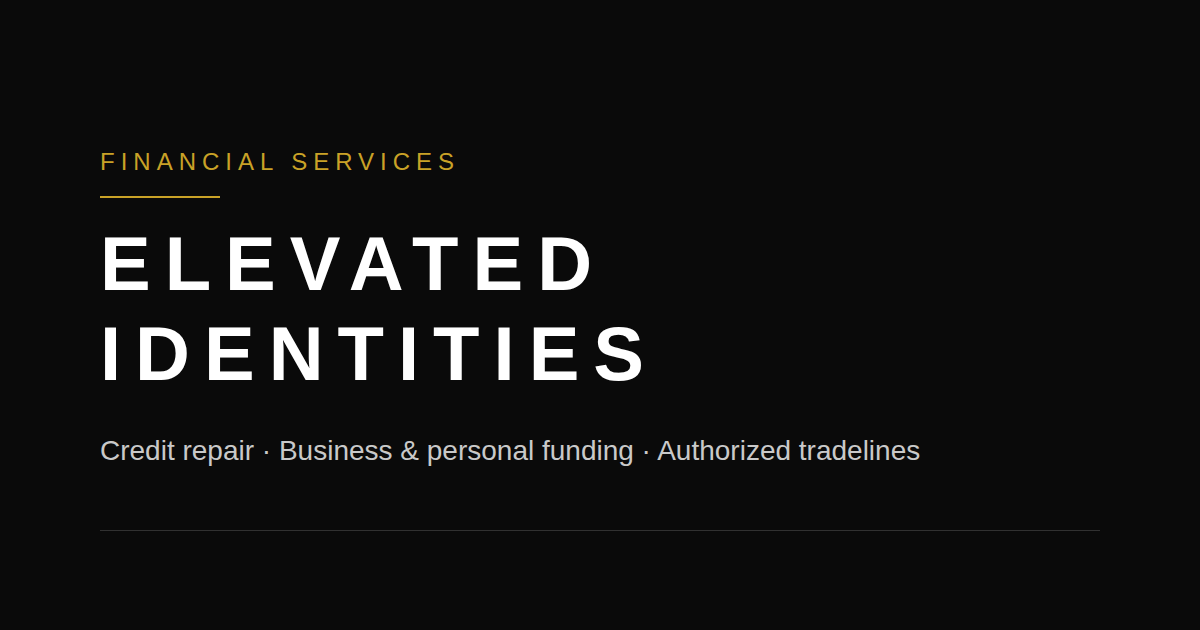
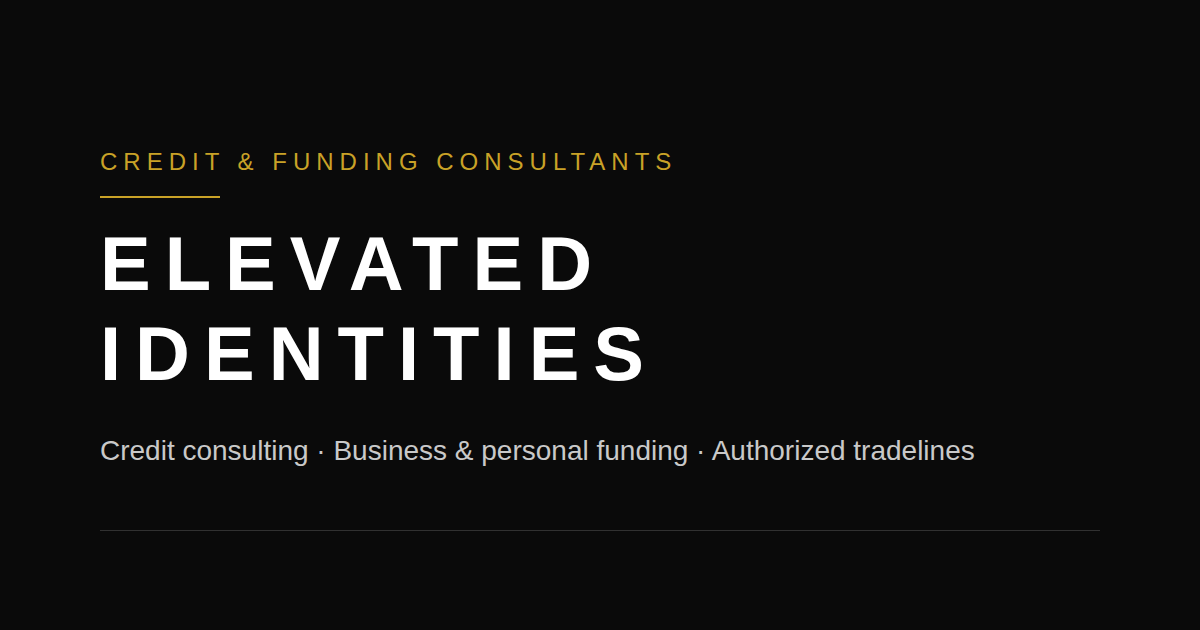
Remove every em dash; fix rebrand leftovers in the share image and manifest
Em dashes
- Rewrites all 16 occurrences rather than swapping the character, so each
  sentence still reads naturally: the homepage consultation paragraph is now
  two sentences, the FAQ lede and the "no obligation" bullet take commas, and
  the Privacy and Terms notices split into two sentences.
- Two user-visible strings in main.js (the message-length validation error and
  the enquiry success message) and the comment headers in main.js and
  styles.css are also cleaned.
- No em dash, en dash or &mdash;/&ndash; entity remains in any served file.

Rebrand leftovers
The earlier terminology pass swept *.html only, so two non-HTML files kept the
old positioning:

- assets/img/og-image.svg — the social share card visibly read "FINANCIAL
  SERVICES" and "Credit repair - Business & personal funding - Authorized
  tradelines". This is the image shown whenever the link is shared, so it
  contradicted the repositioning at exactly the first point of contact. The
  eyebrow is now "CREDIT & FUNDING CONSULTANTS", the strapline reads "Credit
  consulting", and the aria-label is corrected. og-image.png has been
  re-exported at 1200x630 from the corrected source.
- site.webmanifest — the description shown when the site is added to a phone
  home screen still read "Credit repair". Now "Credit consulting"; the file
  still parses as valid JSON.

"Credit repair" now appears nowhere in any served file except the name of the
Credit Repair Organizations Act in terms.html, which is deliberate.
[…]

Changed region(s): [[0.1542, 0.6937, 0.8325, 0.754], [0.0617, 0.2413, 0.555, 0.2714]]

diff --git a/public/assets/css/styles.css b/public/assets/css/styles.css
@@ -1,5 +1,5 @@
 /* ==========================================================================
-   Elevated Identities — styles.css
+   Elevated Identities: styles.css
    Palette: black / white / gold. Gold is a thin accent only: rules, dividers
    and single highlighted lines. Never a background, per the brand brief.
    ========================================================================== */
@@ -23,7 +23,7 @@
   --ei-text-invert:  #ffffff;
   --ei-text-invert-muted: #c9c9c9; /* 11.6:1 on --ei-ink */
 
-  /* Gold accent — text use is dark-background only */
+  /* Gold accent: text use is dark-background only */
   --ei-gold:         #c9a227;
   --ei-gold-bright:  #e3bf4a;   /* 9.2:1 on --ei-ink */
   --ei-gold-line:    rgba(201, 162, 39, 0.55);
@@ -219,7 +219,7 @@ hr {
 }
 .ei-section--dark .ei-section-head p { color: var(--ei-text-invert-muted); }
 
-/* Eyebrow: the gold hairline the brief asks for — a rule, not a fill */
+/* Eyebrow: the gold hairline the brief asks for: a rule, not a fill */
 .ei-eyebrow {
   display: block;
   font-family: var(--ei-font-head);
@@ -371,7 +371,7 @@ hr {
   min-height: var(--ei-header-h);
 }
 
-/* Wordmark — wide letterspacing per the brand pack, tightened on small
+/* Wordmark: wide letterspacing per the brand pack, tightened on small
    screens so the header cannot overflow a 320px viewport. */
 .ei-wordmark {
   display: inline-flex;
@@ -448,7 +448,7 @@ hr {
 .ei-nav-toggle[aria-expanded="true"] .ei-nav-toggle__bars span { opacity: 0; }
 .ei-nav-toggle[aria-expanded="true"] .ei-nav-toggle__bars::after { transform: translateY(-0.335rem) rotate(-45deg); }
 
-/* Nav panel — sits below the sticky header so the toggle stays visible and
+/* Nav panel: sits below the sticky header so the toggle stays visible and
    doubles as the close control. */
 .ei-nav {
   position: absolute;
@@ -842,7 +842,7 @@ body[data-page="contact"]      .ei-nav__link[href="contact.html"] {
 }
 .ei-error:empty { display: none; }
 
-/* Consent checkbox — the label is the hit target, so the text is clickable too. */
+/* Consent checkbox: the label is the hit target, so the text is clickable too. */
 .ei-consent {
   display: grid;
   grid-template-columns: auto 1fr;

diff --git a/public/index.html b/public/index.html
@@ -300,14 +300,14 @@
           </div>
           <div>
             <p>The consultation is a conversation, not a sales pitch. We ask what you are
-               working towards &mdash; a mortgage, a business line of credit, a vehicle, or simply
-               a stronger profile &mdash; and what your timeline looks like.</p>
+               working towards: a mortgage, a business line of credit, a vehicle, or simply
+               a stronger profile. We also ask what your timeline looks like.</p>
             <ul class="ei-checklist">
               <li>You tell us your goal and the timeline you are working to</li>
               <li>We talk through what is currently on your reports and how lenders read it</li>
               <li>We explain which parts of your profile can realistically change, and which cannot</li>
               <li>We set out the likely sequence of work and what it involves</li>
-              <li>You decide whether to go ahead &mdash; there is no obligation and no cost</li>
+              <li>You decide whether to go ahead, with no obligation and no cost</li>
             </ul>
             <p>You will leave the call with a clear read on your position, whether or not you
                choose to work with us.</p>

diff --git a/public/assets/js/main.js b/public/assets/js/main.js
@@ -1,5 +1,5 @@
 /* ==========================================================================
-   Elevated Identities — main.js
+   Elevated Identities: main.js
 
    Two independent enhancements, both optional:
      1. Mobile navigation panel (the nav is a plain list without JS).
@@ -123,7 +123,7 @@
     },
     message: {
       test: function (v) { return v.trim().length >= 10; },
-      message: "Please tell us a little more — at least 10 characters."
+      message: "Please tell us a little more, at least 10 characters."
     },
     consent: {
       test: function (v) { return v === true; },
@@ -242,7 +242,7 @@
             if (field) clearError(field);
           });
           setStatus("success",
-            "<p><strong>Thank you — your enquiry has been sent.</strong> " +
+            "<p><strong>Thank you. Your enquiry has been sent.</strong> " +
             "We will be in touch shortly to arrange your free consultation.</p>");
         })
         .catch(function (error) {

diff --git a/public/privacy.html b/public/privacy.html
@@ -93,7 +93,7 @@
           <!-- LAUNCH GATE: this notice may only be removed once an attorney has
                actually reviewed this policy. See TODO-CLIENT.md item 4. -->
           <p class="ei-prose__meta">
-            Last updated: 3 September 2026. This policy is not yet final &mdash; it has not been
+            Last updated: 3 September 2026. This policy is not yet final. It has not been
             reviewed by a qualified attorney and may change. If you have any question about how
             your information is handled, contact us at
             <a href="mailto:consultations@elevatedidentities.com">consultations@elevatedidentities.com</a>

diff --git a/public/terms.html b/public/terms.html
@@ -95,7 +95,7 @@
                notice, the payment structure and the required disclosures.
                See TODO-CLIENT.md items 4 and 22. -->
           <p class="ei-prose__meta">
-            Last updated: 3 September 2026. These terms are not yet final &mdash; they have not
+            Last updated: 3 September 2026. These terms are not yet final. They have not
             been reviewed by a qualified attorney and may change. Credit-repair services are
             regulated at both federal and state level under the Credit Repair Organizations Act
             and state law, and describing a service as consulting does not change which rules

diff --git a/public/faq.html b/public/faq.html
@@ -85,7 +85,7 @@
         <h1 data-split>Frequently asked questions</h1>
         <p class="ei-hero__lede" data-rise style="--d:2">
           Straight answers about credit consulting, profile improvement, funding readiness
-          and authorized tradelines &mdash; including the things we cannot promise.
+          and authorized tradelines, including the things we cannot promise.
         </p>
       </div>
     </section>
